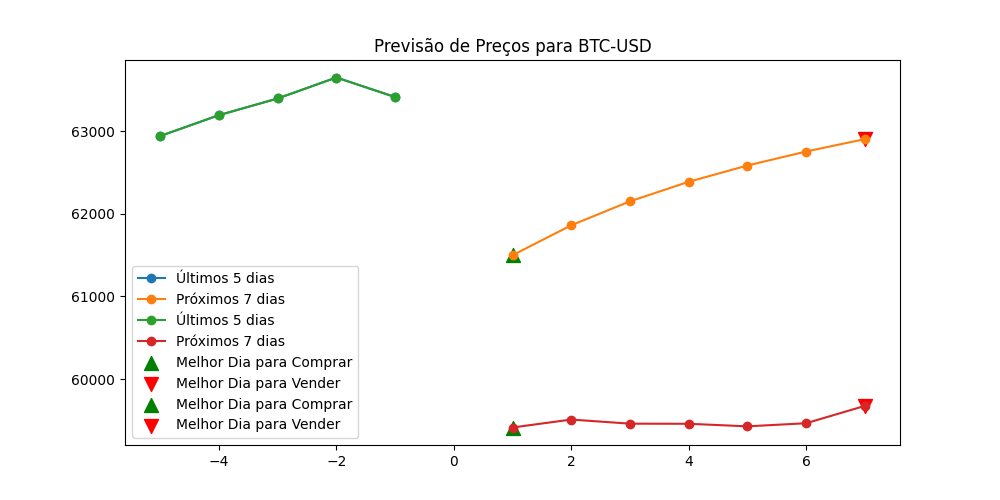
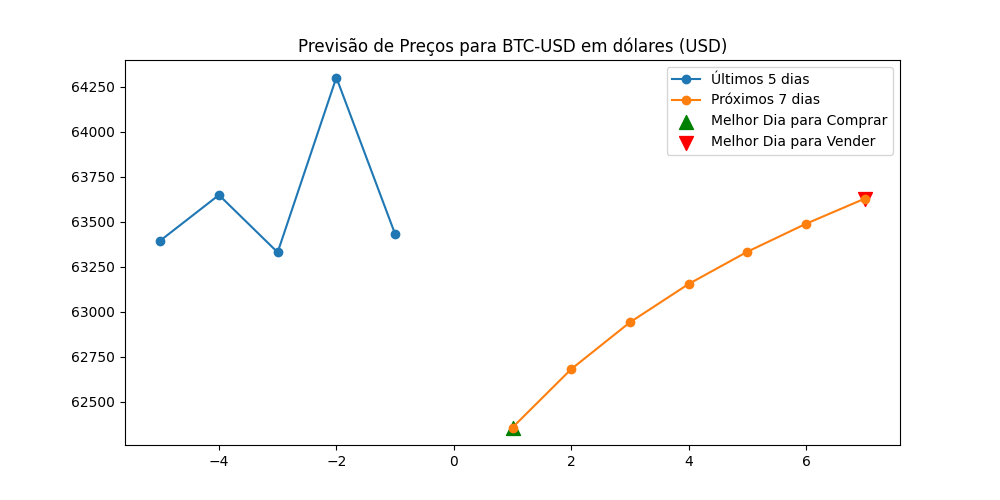
to voando alto, pra cima delessssss

diff --git a/src/nextjs-app/components/CryptoForm.tsx b/src/nextjs-app/components/CryptoForm.tsx
@@ -4,12 +4,15 @@ import axios from 'axios';
 interface CryptoFormProps {
   onPrediction: (imageUrl: string, predictions: string[]) => void;
   onPredictionProphet: (imageUrl: string, predictions: string[]) => void; // Adicionando a função onPredictionProphet
+  onGeneratePdf: (filename: string) => void; // Adicionando a função onGeneratePdf
+  onPredictionLSTMandPh: (imageUrl: string, predictions: string[]) => void; // Adicionando a função onPredictionLSTMandPh
 }
 
-const CryptoForm: React.FC<CryptoFormProps> = ({ onPrediction, onPredictionProphet }) => {
+const CryptoForm: React.FC<CryptoFormProps> = ({ onPrediction, onPredictionProphet, onGeneratePdf, onPredictionLSTMandPh }) => {
   const [crypto, setCrypto] = useState('BTC-USD');
   const [loading, setLoading] = useState(false);
   const [showPdfButton, setShowPdfButton] = useState(false);
+  const [LstmAndProphet, setLstmAndProphet] = useState(false);
 
   const handlePredictLSTM = async () => {
     setLoading(true);
@@ -35,6 +38,22 @@ const CryptoForm: React.FC<CryptoFormProps> = ({ onPrediction, onPredictionProph
       setShowPdfButton(true);
     } catch (error) {
       console.error('Erro ao buscar previsões Prophet:', error);
+    }
+    setLoading(false);
+  };
+
+  const handlePredictLSTMandPh = async () => {
+    setLoading(true);
+    setLstmAndProphet(false);
+    setShowPdfButton(false); // Reseta botão de PDF ao carregar
+    try {
+      const response = await axios.post('http://localhost:8000/comparation', { crypto });
+      const { imageUrl, predictions } = response.data;
+      onPrediction(imageUrl, predictions);
+      setLstmAndProphet(true);
+      setShowPdfButton(true);
+    } catch (error) {
+      console.error('Erro ao buscar previsões:', error);
     }
     setLoading(false);
   };
@@ -84,17 +103,28 @@ const CryptoForm: React.FC<CryptoFormProps> = ({ onPrediction, onPredictionProph
       >
         {loading ? 'Carregando...' : 'Prever com Prophet'}
       </button>
-  
-      {showPdfButton && (
-        <button 
-          onClick={handleGeneratePdf} 
-          className="p-2 bg-red-500 text-white rounded-md mt-4"
-        >
-          Gerar PDF
-        </button>
-      )}
+      <button 
+        onClick={handlePredictLSTMandPh} 
+        disabled={loading}
+        className={`p-2 bg-yellow-500 text-white rounded-md ml-2 ${LstmAndProphet ? 'opacity-50' : ''}`}
+      >
+        {LstmAndProphet ? 'Carregando...' : 'Prever com LSTM e Prophet'}
+      </button>
+    <div>
+      <center>
+        {showPdfButton && (
+          <button 
+            onClick={handleGeneratePdf} 
+            className="p-2 bg-red-500 text-white rounded-md mt-4"
+          >
+            Gerar PDF
+          </button>
+        )}
+      </center>
+    </div>
     </div>
   );
+
   
 };
 

diff --git a/src/nextjs-app/app/page.tsx b/src/nextjs-app/app/page.tsx
@@ -20,6 +20,7 @@ const Home = () => {
     setPredictionsProphet(predictions);
   };
 
+
   return (
     <div className="min-h-screen flex flex-col items-center justify-center bg-gray-100">
       <CryptoForm 

diff --git a/src/backend/main.py b/src/backend/main.py
@@ -11,36 +11,8 @@ import time
 from fastapi import FastAPI, BackgroundTasks, HTTPException
 
 # Função para gerar o PDF
-def create_pdf(crypto: str, predictions_lstm: list, predictions_prophet: list, filename: str):
+def create_pdf(filename: str):
     pdf = FPDF()
-    pdf.add_page()
-
-    # Título
-    pdf.set_font('Arial', 'B', 16)
-    pdf.cell(40, 10, f'Relatório de Previsão de Preço - {crypto}', ln=True)
-
-    # Adicionar uma linha de espaço
-    pdf.ln(10)
-
-    # Adicionar previsões do modelo LSTM
-    pdf.set_font('Arial', '', 12)
-    pdf.cell(0, 10, 'Previsões LSTM:', ln=True)
-    for i, pred in enumerate(predictions_lstm, 1):
-        pdf.cell(0, 10, f'Dia {i}: {pred}', ln=True)
-
-    pdf.ln(10)  # Adiciona um espaçamento entre as previsões
-
-    # Adicionar previsões do modelo Prophet
-    pdf.set_font('Arial', '', 12)
-    pdf.cell(0, 10, 'Previsões Prophet:', ln=True)
-    for i, pred in enumerate(predictions_prophet, 1):
-        pdf.cell(0, 10, f'Dia {i}: {pred}', ln=True)
-
-    pdf.ln(10)  # Espaçamento para os gráficos
-
-    # Adicionar gráficos
-    pdf.set_font('Arial', 'B', 12)
-    pdf.cell(0, 10, 'Gráficos de Previsão:', ln=True)
 
     # Supondo que os gráficos já estejam salvos como arquivos de imagem:
     image_lstm = f'../nextjs-app/public/lstm_prediction_plot.png'
@@ -92,8 +64,7 @@ class CryptoRequest(BaseModel):
 #     # Retorna o PDF gerado
 #     return FileResponse(pdf_path, media_type='application/pdf', filename=pdf_filename)
 
-# Rota POST para previsões
-@app.post("/predict")
+@app.post("/comparation")
 async def post_predict(request: CryptoRequest):
     crypto = request.crypto
     future_predictions, real_last_5_days = predict_crypto(crypto)
@@ -114,21 +85,18 @@ async def post_predict(request: CryptoRequest):
 
     # Plota o gráfico e salva na pasta estática do Next.js
     plt.figure(figsize=(10, 5))
-    days_real_ph = np.arange(-5, 0)  # Últimos 5 dias
     days_future_ph = np.arange(1, 8)  # Próximos 7 dias
 
     plt.plot(days_real, real_last_5_days, label='Últimos 5 dias', marker='o')
-    plt.plot(days_future, future_predictions, label='Próximos 7 dias', marker='o')
-
-    plt.plot(days_real_ph, real_last_5_days_ph, label='Últimos 5 dias', marker='o')
-    plt.plot(days_future_ph, future_predictions_ph, label='Próximos 7 dias', marker='o')
+    plt.plot(days_future, future_predictions, label='Próximos 7 dias (LSTM)', marker='o')
+    plt.plot(days_future_ph, future_predictions_ph, label='Próximos 7 dias (Prophet)', marker='o')
 
     # Destacar o melhor dia para comprar e vender
-    plt.scatter(best_day_buy, future_predictions[best_day_buy - 1], color='green', label='Melhor Dia para Comprar', marker='^', s=100)
-    plt.scatter(best_day_sell, future_predictions[best_day_sell - 1], color='red', label='Melhor Dia para Vender', marker='v', s=100)
+    plt.scatter(best_day_buy, future_predictions[best_day_buy - 1], color='green', label='Melhor Dia para Comprar (LSTM)', marker='^', s=100)
+    plt.scatter(best_day_sell, future_predictions[best_day_sell - 1], color='red', label='Melhor Dia para Vender (LSTM)', marker='v', s=100)
 
-    plt.scatter(best_day_buy_ph, future_predictions_ph[best_day_buy_ph - 1], color='green', label='Melhor Dia para Comprar', marker='^', s=100)
-    plt.scatter(best_day_sell_ph, future_predictions_ph[best_day_sell_ph - 1], color='red', label='Melhor Dia para Vender', marker='v', s=100)
+    plt.scatter(best_day_buy_ph, future_predictions_ph[best_day_buy_ph - 1], color='green', label='Melhor Dia para Comprar (Prophet)', marker='^', s=100)
+    plt.scatter(best_day_sell_ph, future_predictions_ph[best_day_sell_ph - 1], color='red', label='Melhor Dia para Vender (Prophet)', marker='v', s=100)
 
     # Configuração do gráfico
     plt.title(f'Previsão de Preços para {crypto}')
@@ -136,14 +104,8 @@ async def post_predict(request: CryptoRequest):
 
     # Ajustar o caminho para salvar a imagem na pasta 'public' do Next.js
     current_dir = os.path.dirname(__file__)
-    image_path_lstm = os.path.join(current_dir, '../nextjs-app/public/lstm_prediction_plot.png')
+    image_path_lstm = os.path.join(current_dir, '../nextjs-app/public/lstm_Ph_prediction_plot.png')
     plt.savefig(image_path_lstm)
-    plt.close()
-
-    # Ajustar o caminho para salvar a imagem na pasta 'public' do Next.js
-    current_dir_ph = os.path.dirname(__file__)
-    image_path_ph = os.path.join(current_dir_ph, '../nextjs-app/public/prophet_prediction_plot.png')
-    plt.savefig(image_path_ph)
     plt.close()
 
     # Formatar as previsões para exibir no frontend
@@ -152,9 +114,47 @@ async def post_predict(request: CryptoRequest):
     # Formatar as previsões para exibir no frontend
     predictions_ph = [f"Dia {i+1}: Previsão de fechamento: {float(price):.2f}" for i, price in enumerate(future_predictions_ph)]
 
-    return {"imageUrl": "/lstm_prediction_plot.png", "predictions": predictions}
+    return {"imageUrl": "/lstm_Ph_prediction_plot.png", "predictions": predictions, "predictions_ph": predictions_ph}
 
 # Rota POST para previsões
+@app.post("/predict")
+async def post_predict(request: CryptoRequest):
+    crypto = request.crypto
+    future_predictions, real_last_5_days = predict_crypto(crypto)
+    
+    # Encontrando o melhor dia para comprar e vender
+    best_day_buy = np.argmin(future_predictions) + 1  # Melhor dia para comprar (menor valor)
+    best_day_sell = np.argmax(future_predictions) + 1  # Melhor dia para vender (maior valor)
+
+    # Plota o gráfico e salva na pasta estática do Next.js
+    plt.figure(figsize=(10, 5))
+    days_real = np.arange(-5, 0)  # Últimos 5 dias
+    days_future = np.arange(1, 8)  # Próximos 7 dias
+
+    plt.plot(days_real, real_last_5_days, label='Últimos 5 dias', marker='o')
+    plt.plot(days_future, future_predictions, label='Próximos 7 dias', marker='o')
+
+    # Destacar o melhor dia para comprar e vender
+    plt.scatter(best_day_buy, future_predictions[best_day_buy - 1], color='green', label='Melhor Dia para Comprar', marker='^', s=100)
+    plt.scatter(best_day_sell, future_predictions[best_day_sell - 1], color='red', label='Melhor Dia para Vender', marker='v', s=100)
+
+    # Configuração do gráfico
+    plt.title(f'Previsão de Preços para {crypto} em dólares (USD)')
+    plt.legend()
+
+    # Ajustar o caminho para salvar a imagem na pasta 'public' do Next.js
+    current_dir = os.path.dirname(__file__)
+    image_path_lstm = os.path.join(current_dir, '../nextjs-app/public/lstm_prediction_plot.png')
+    plt.savefig(image_path_lstm)
+    plt.close()
+
+    # Formatar as previsões para exibir no frontend
+    predictions = [f"Dia {i+1}: Previsão de fechamento: R$ {float(price*5.53):.2f}" for i, price in enumerate(future_predictions)]
+
+    return {"imageUrl": "/lstm_prediction_plot.png", "predictions": predictions}
+
+# Rota POST para previsões Prophet
+# Rota POST para previsões Prophet
 @app.post("/predict_prophet")
 async def post_predict_prophet(request: CryptoRequest):
     crypto = request.crypto
@@ -186,9 +186,10 @@ async def post_predict_prophet(request: CryptoRequest):
     plt.close()
 
     # Formatar as previsões para exibir no frontend
-    predictions_ph = [f"Dia {i+1}: Previsão de fechamento: {float(price*5.53):.2f}" for i, price in enumerate(future_predictions_ph)]
+    predictions_ph = [f"Dia {i+1}: Previsão de fechamento: R$ {float(price*5.53):.2f}" for i, price in enumerate(future_predictions_ph)]
 
-    return {"imageUrl": "/prophet_prediction_plot.png", "predictions": predictions_ph}
+    return {"imageUrl": "/prophet_prediction_plot.png", "predictions": predictions_ph}  # Certifique-se que o nome corresponde ao esperado no frontend
+
 
 @app.post("/generate-pdf")
 async def generate_pdf(request: CryptoRequest, background_tasks: BackgroundTasks):

diff --git a/src/backend/model.py b/src/backend/model.py
@@ -121,122 +121,3 @@ def predict_crypto(crypto='BNB-USD'):
 
     print(future_predictions, real_last_5_days)
     return future_predictions, real_last_5_days
-
-
-###############################################################
-
-# import os
-# import numpy as np
-# import yfinance as yf
-# from sklearn.preprocessing import MinMaxScaler
-# from tensorflow.keras.models import Sequential, load_model
-# from tensorflow.keras.layers import LSTM, Dense, Dropout
-# from prophet import Prophet
-# import pandas as pd
-# from sklearn.metrics import mean_absolute_error
-
-# # Função para criar sequências de dados
-# def create_sequences(data, time_step=60):
-#     X, y = [], []
-#     for i in range(len(data) - time_step - 1):
-#         X.append(data[i:(i + time_step), 0])
-#         y.append(data[i + time_step, 0])
-#     return np.array(X), np.array(y)
-
-# # Função para treinar e salvar o modelo LSTM
-# def train_and_save_model(crypto='BNB-USD'):
-#     ticker = yf.Ticker(crypto)
-#     data = ticker.history(period='2y')['Close'].values.reshape(-1, 1)
-
-#     # Normalizando os dados
-#     scaler = MinMaxScaler(feature_range=(0, 1))
-#     scaled_data = scaler.fit_transform(data)
-
-#     # Criar sequência de dados para treino
-#     time_step = 60
-#     X, y = create_sequences(scaled_data, time_step)
-#     X = X.reshape(X.shape[0], X.shape[1], 1)
-
-#     # Dividindo em treino e teste
-#     train_size = int(0.8 * len(X))
-#     X_train, y_train = X[:train_size], y[:train_size]
-#     X_test, y_test = X[train_size:], y[train_size:]
-
-#     # Criando o modelo LSTM
-#     model = Sequential()
-#     model.add(LSTM(units=50, return_sequences=True, input_shape=(X_train.shape[1], 1)))
-#     model.add(Dropout(0.2))
-#     model.add(LSTM(units=50, return_sequences=False))
-#     model.add(Dropout(0.2))
-#     model.add(Dense(units=25))
-#     model.add(Dense(units=1))
-
-#     # Compilando o modelo
-#     model.compile(optimizer='adam', loss='mean_squared_error')
-
-#     # Treinando o modelo
-#     model.fit(X_train, y_train, batch_size=64, epochs=10)
-
-#     # Salvando o modelo e o scaler
-#     model_save_path = f'saved_models/model_{crypto}.h5'
-#     model.save(model_save_path)
-
-#     scaler_save_path = f'saved_models/scaler_{crypto}.npy'
-#     np.save(scaler_save_path, scaler)
-
-#     return model, scaler
-
-# # Função para previsão usando LSTM
-# def predict_with_lstm(crypto='BNB-USD'):
-#     model_path = f'saved_models/model_{crypto}.h5'
-#     scaler_path = f'saved_models/scaler_{crypto}.npy'
-    
-#     if not os.path.exists(model_path) or not os.path.exists(scaler_path):
-#         train_and_save_model(crypto)
-
-#     model = load_model(model_path)
-#     scaler = np.load(scaler_path, allow_pickle=True).item()
-
-#     ticker = yf.Ticker(crypto)
-#     data = ticker.history(period='2y')['Close'].values.reshape(-1, 1)
-
-#     # Normalizar os dados
-#     scaled_data = scaler.transform(data)
-
-#     # Usar os últimos 60 dias para prever os próximos 7 dias
-#     time_step = 60
-#     last_60_days = scaled_data[-time_step:]
-#     last_60_days = last_60_days.reshape(1, time_step, 1)
-
-#     future_predictions = []
-#     for day in range(7):
-#         predicted_price = model.predict(last_60_days)
-#         future_predictions.append(predicted_price[0, 0])
-#         predicted_price = predicted_price.reshape(1, 1, 1)
-#         last_60_days = np.append(last_60_days[:, 1:, :], predicted_price, axis=1)
-
-#     # Reverter a normalização
-#     future_predictions = scaler.inverse_transform(np.array(future_predictions).reshape(-1, 1))
-
-#     # Obter os preços reais dos últimos 5 dias
-#     real_last_5_days = data[-5:].reshape(-1)
-
-#     return future_predictions, real_last_5_days
-
-# # Função para previsão usando Prophet
-# def predict_with_prophet(crypto='BNB-USD'):
-#     ticker = yf.Ticker(crypto)
-#     df = ticker.history(period='2y')[['Close']].reset_index()
-
-#     df.columns = ['ds', 'y']
-#     df['ds'] = pd.to_datetime(df['ds']).dt.tz_localize(None)
-
-#     model = Prophet()
-#     model.fit(df)
-
-#     future = model.make_future_dataframe(periods=7)
-#     forecast = model.predict(future)
-
-#     future_predictions = forecast[['ds', 'yhat']].tail(7)
-
-#     return future_predictions['yhat'].values, df['y'].tail(5).values
